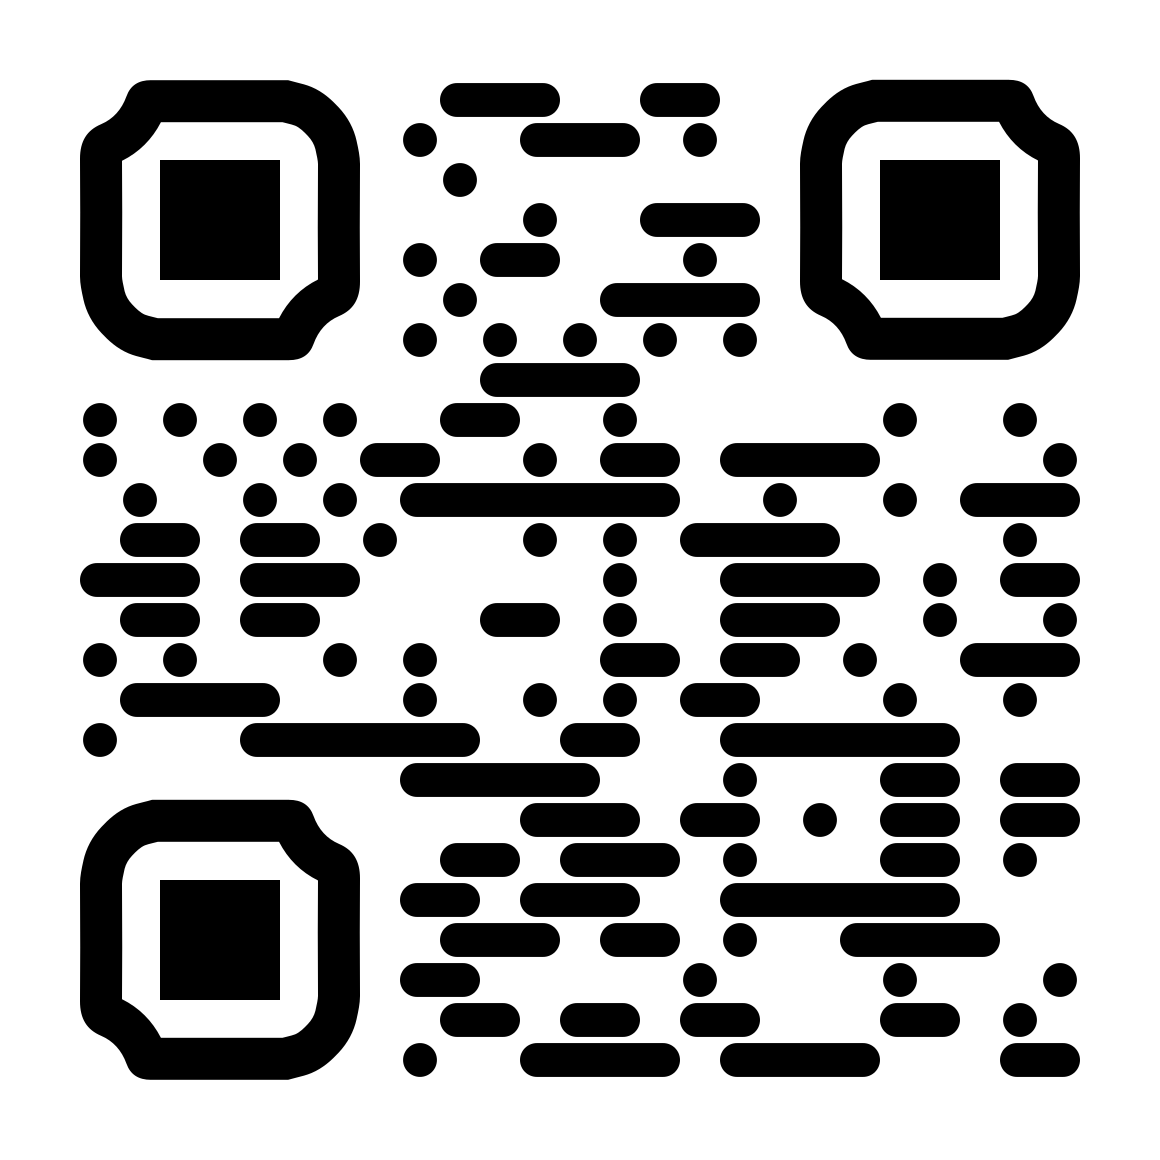
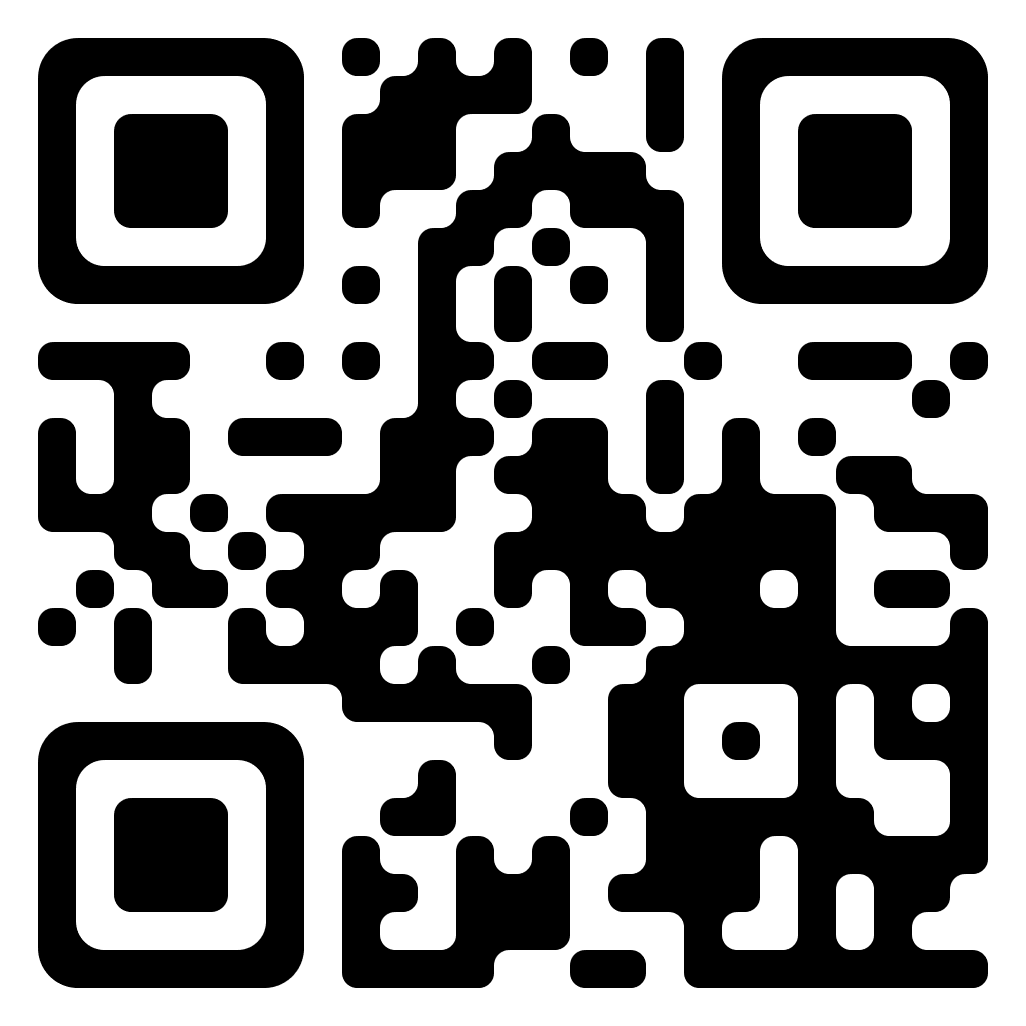
change qr code and ref link

diff --git a/src/pages/ref.tsx b/src/pages/ref.tsx
@@ -99,7 +99,7 @@ export const Ref = () => {
       >
         <Text fontWeight="bold">My invite link:</Text>
         <Text fontSize="xs" color="gray.400">
-          https://t.me/testatrbot/start?startapp={userId}
+          https://t.me/PatataCoin_Bot/start?startapp={userId}
         </Text>
         <Button
           position="absolute"
